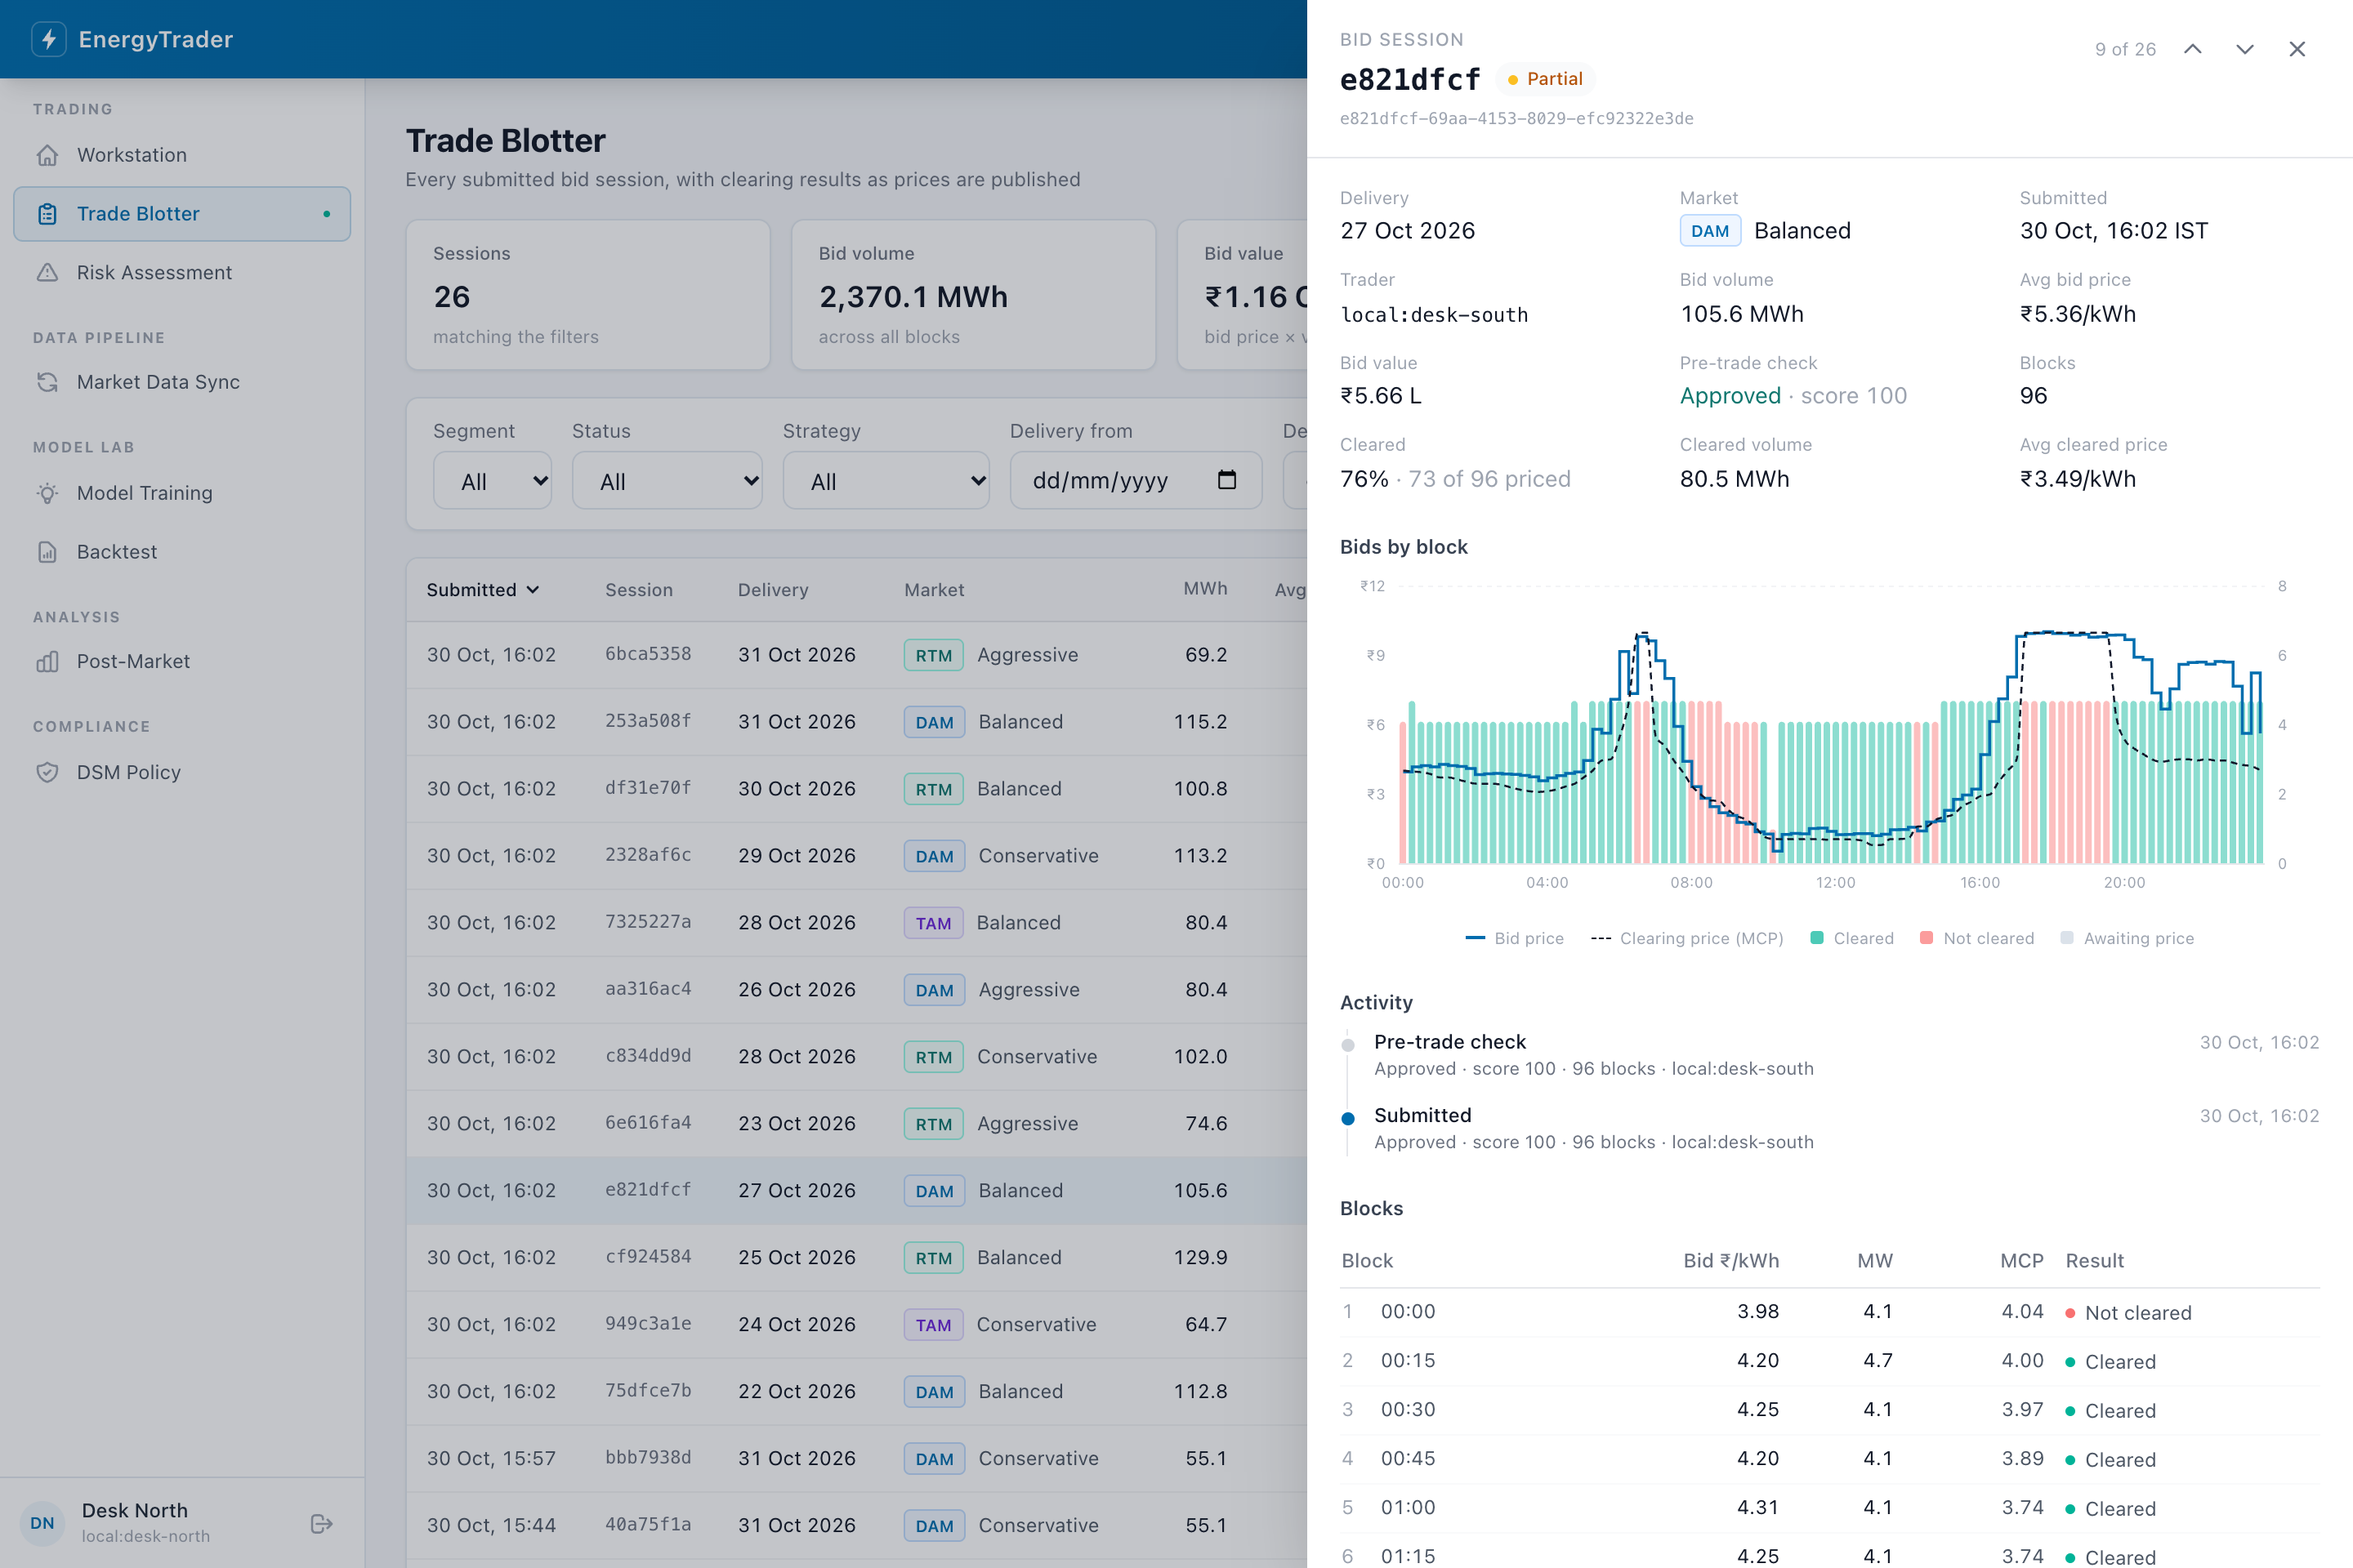
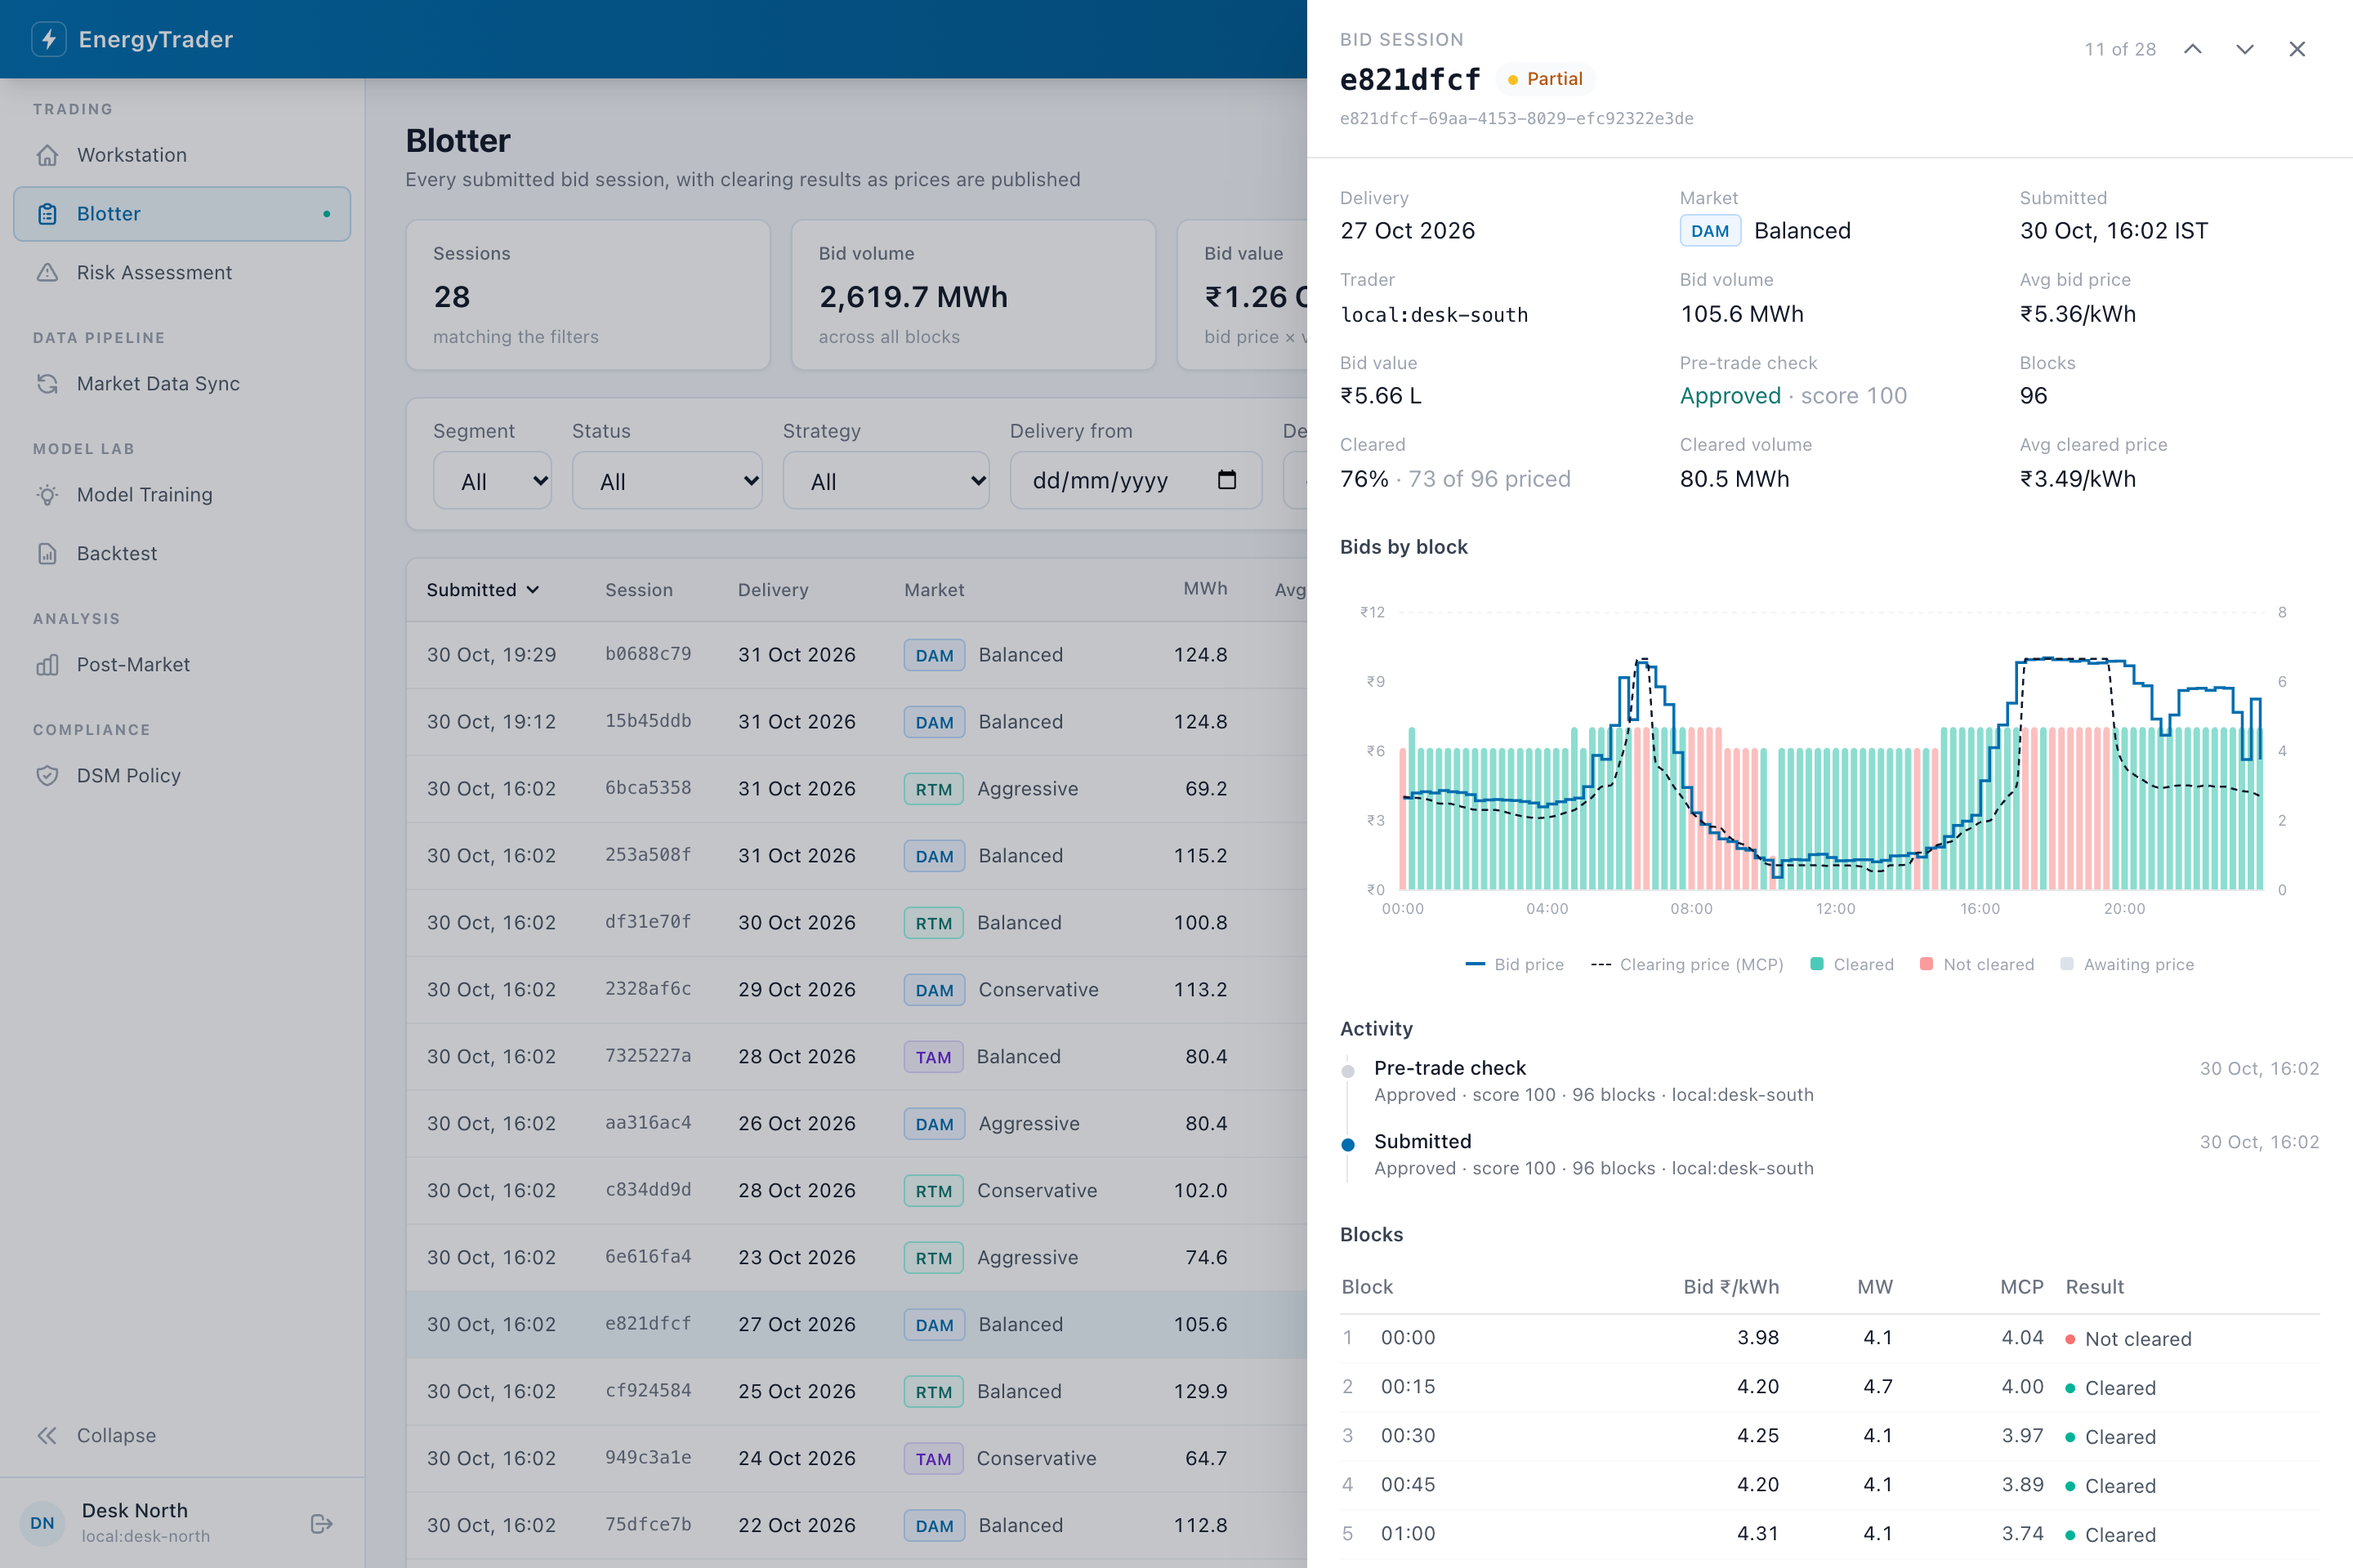
Refresh the README screenshots
The app shell has changed since they were taken: the blotter is called
Blotter, the sidebar can collapse, and the header no longer shows the API
status. The README also notes that price charts measure a change on drag.

diff --git a/README.md b/README.md
@@ -18,6 +18,8 @@ It forecasts 15-minute clearing prices, builds a bid schedule with a linear prog
 7. **Track.** Follow each session on the blotter as clearing prices are published: how many blocks cleared, how much volume, and at what price.
 8. **Review.** Compare forecasts and bids with cleared prices: forecast error, bid hit rate, basket rate and uncleared DSM exposure.
 
+On any price chart, press and drag to read the change between two points, as on a market chart.
+
 ![Workstation](docs/screenshots/workstation.png)
 
 ## Quick start
